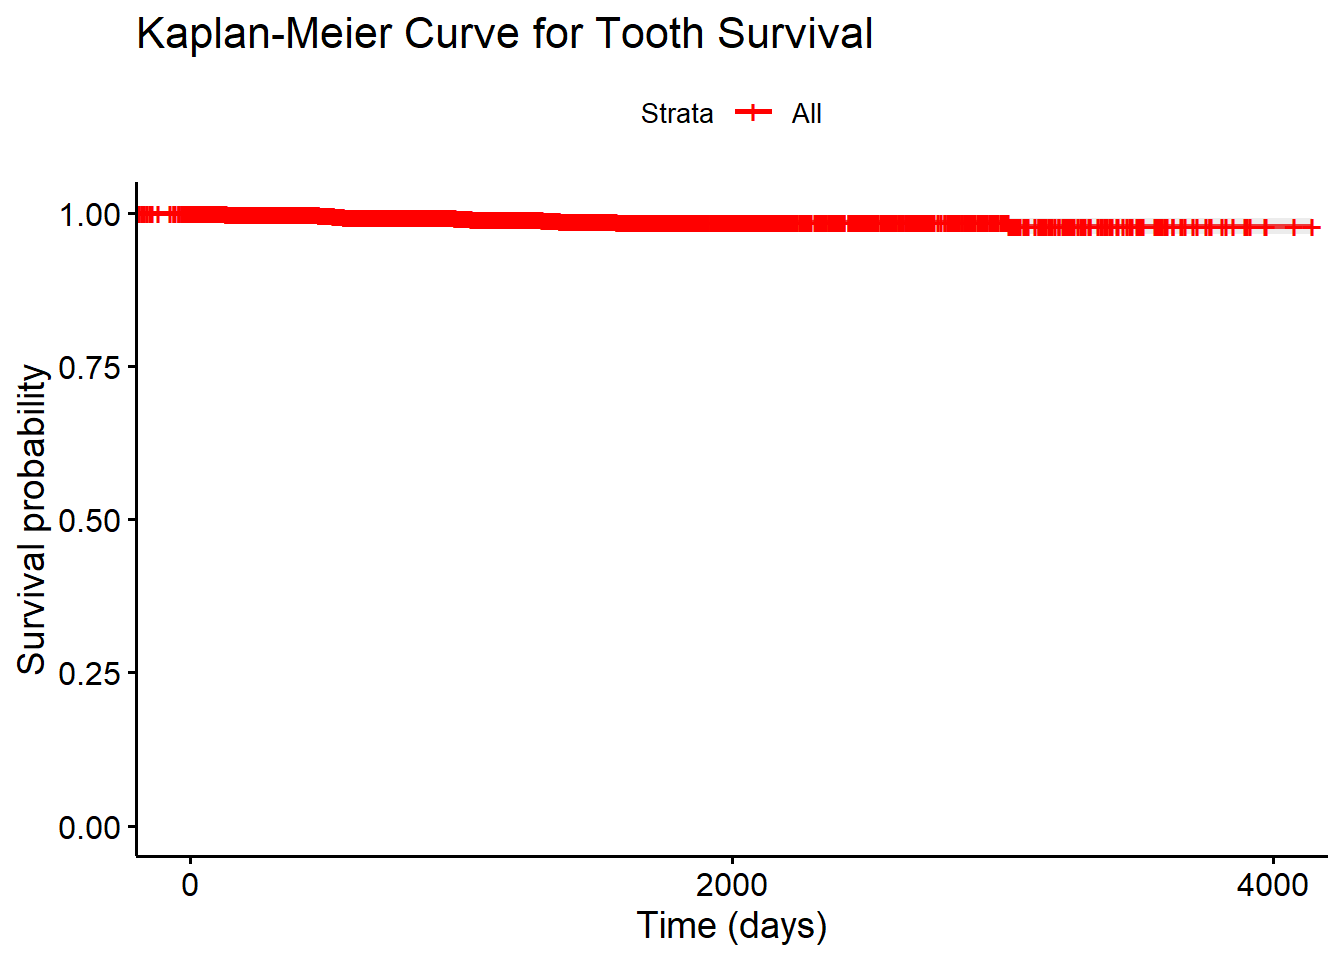
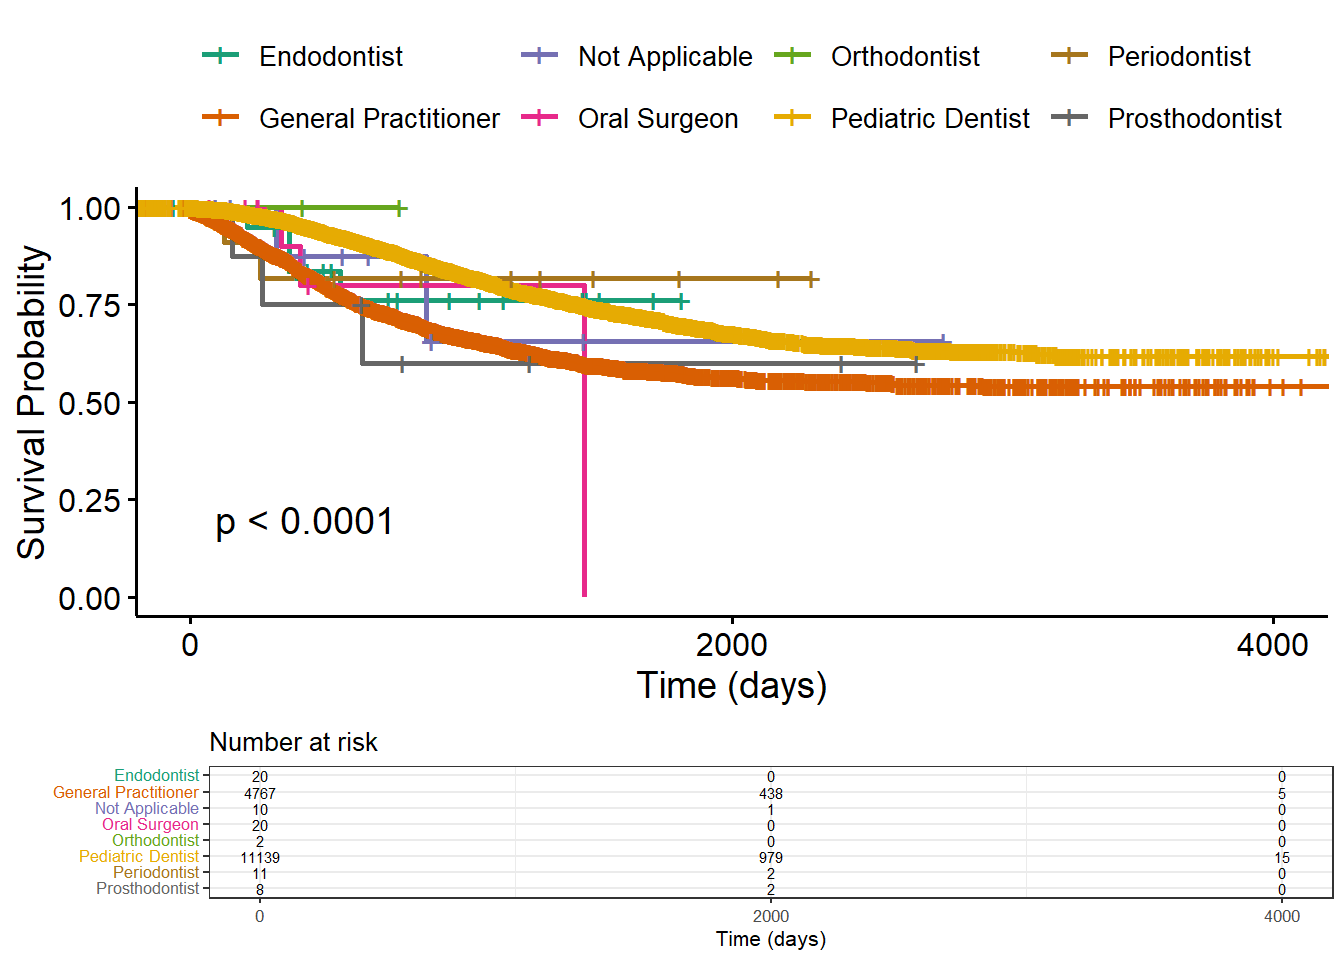
6/5/2025

diff --git a/docs/ddwi_part2_survival_analysis.html b/docs/ddwi_part2_survival_analysis.html
@@ -400,7 +400,7 @@ aria-hidden="true"></span> </a>
 <div class="tab-content">
 <div id="summary" class="tab-pane fade in active">
 <p>
-<strong>Last updated:</strong> 2025-05-21
+<strong>Last updated:</strong> 2025-06-05
 </p>
 <p>
 <strong>Checks:</strong> <span
@@ -534,15 +534,15 @@ project makes it easier to run your code on other machines.</p>
 <div class="panel panel-default">
 <div class="panel-heading">
 <p class="panel-title">
-<a data-toggle="collapse" data-parent="#workflowr-checks" href="#strongRepositoryversionstrongahrefhttpsgithubcomhan16Oralpublichealthtree8ba5fe76334b312c6809ec0963849c1befb299cdtargetblank8ba5fe7a">
+<a data-toggle="collapse" data-parent="#workflowr-checks" href="#strongRepositoryversionstrongahrefhttpsgithubcomhan16Oralpublichealthtreede898e4e5431832097ade03393d9edb43040538ctargetblankde898e4a">
 <span class="glyphicon glyphicon-ok text-success"
 aria-hidden="true"></span> <strong>Repository version:</strong>
-<a href="https://github.com/han16/Oral-public-health/tree/8ba5fe76334b312c6809ec0963849c1befb299cd" target="_blank">8ba5fe7</a>
+<a href="https://github.com/han16/Oral-public-health/tree/de898e4e5431832097ade03393d9edb43040538c" target="_blank">de898e4</a>
 </a>
 </p>
 </div>
 <div
[2 lines of base64/hex data omitted]
 class="panel-collapse collapse">
 <div class="panel-body">
 <p>
@@ -552,7 +552,7 @@ reproducibility.
 </p>
 <p>
 The results in this page were generated with repository version
-<a href="https://github.com/han16/Oral-public-health/tree/8ba5fe76334b312c6809ec0963849c1befb299cd" target="_blank">8ba5fe7</a>.
+<a href="https://github.com/han16/Oral-public-health/tree/de898e4e5431832097ade03393d9edb43040538c" target="_blank">de898e4</a>.
 See the <em>Past versions</em> tab to see a history of the changes made
 to the R Markdown and HTML files.
 </p>
@@ -619,6 +619,40 @@ Message
 </tr>
 </thead>
 <tbody>
+<tr>
+<td>
+Rmd
+</td>
+<td>
+<a href="https://github.com/han16/Oral-public-health/blob/ee89e19e424747a887bd51e16faf1f2729304bf3/analysis/ddwi_part2_survival_analysis.Rmd" target="_blank">ee89e19</a>
+</td>
+<td>
+han
+</td>
+<td>
+2025-05-21
+</td>
+<td>
+5/21/2025
+</td>
+</tr>
+<tr>
+<td>
+html
+</td>
+<td>
+<a href="https://rawcdn.githack.com/han16/Oral-public-health/ee89e19e424747a887bd51e16faf1f2729304bf3/docs/ddwi_part2_survival_analysis.html" target="_blank">ee89e19</a>
+</td>
+<td>
+han
+</td>
+<td>
+2025-05-21
+</td>
+<td>
+5/21/2025
+</td>
+</tr>
 <tr>
 <td>
 Rmd
@@ -768,7 +802,9 @@ claims &lt;- qread(paste(path, &quot;claims_combined_all.qs&quot;, sep=&quot;&qu
       End_Date = NA,
       Survival_Time_Days = NA,
       Event_Observed = NA,
-      Index = index
+      Index = index,
+      provider_specialty=NA,
+      surface_area_code=NA
     ))
   }
 
@@ -791,7 +827,9 @@ claims &lt;- qread(paste(path, &quot;claims_combined_all.qs&quot;, sep=&quot;&qu
       End_Date = NA,
       Survival_Time_Days = NA,
       Event_Observed = NA,
-      Index = index
+      Index = index, 
+      provider_specialty=NA,
+      surface_area_code=NA
     ))
   }
 
@@ -809,6 +847,17 @@ claims &lt;- qread(paste(path, &quot;claims_combined_all.qs&quot;, sep=&quot;&qu
   }
 
   survival_time &lt;- as.numeric(difftime(end_date, start_date, units = &quot;days&quot;))
+  
+  provider_specialty=claims %&gt;%
+    filter(member_tooth_number == tooth_id) %&gt;%
+    select(`Provider Specialty Name`) %&gt;%
+    pull()
+  surface_area_code=claims %&gt;%
+    filter(member_tooth_number == tooth_id) %&gt;%
+    select(`All Surfaces Area Code`) %&gt;%
+    pull()
+  
+  
 
   return(data.frame(
     Tooth_ID = tooth_id,
@@ -816,7 +865,10 @@ claims &lt;- qread(paste(path, &quot;claims_combined_all.qs&quot;, sep=&quot;&qu
     End_Date = end_date,
     Survival_Time_Days = survival_time,
     Event_Observed = event_observed,
-    Index = index
+    Index = index, 
+    provider_specialty=provider_specialty[1], 
+    surface_area_code=surface_area_code[1]
+    
   ))
 }</code></pre>
 <ul>
@@ -839,9 +891,8 @@ survival_results &lt;- map2_dfr(
 <h3>survival analysis</h3>
 <pre class="r"><code>survival_results=qread(paste(path, &quot;survival_results_for_code3220.qs&quot;, sep=&quot;&quot;))
 # Assuming your data frame is named survival_results
-survival_results_clean &lt;- survival_results[!grepl(&quot;^9999&quot;, survival_results$End_Date), ]
-
-library(survival)
+survival_results_clean &lt;- survival_results[!grepl(&quot;^9999&quot;, survival_results$End_Date), ]</code></pre>
+<pre class="r"><code>library(survival)
 library(survminer)
 
 # Create the survival object
@@ -860,83 +911,23 @@ ggsurvplot(km_fit,
            ylab = &quot;Survival probability&quot;,
            title = &quot;Kaplan-Meier Curve for Tooth Survival&quot;,
            palette = &quot;red&quot;)              # Set curve color to red</code></pre>
-<p><img src="figure/ddwi_part2_survival_analysis.Rmd/unnamed-chunk-6-1.png" width="672" style="display: block; margin: auto;" /></p>
-<p>
-<button type="button" class="btn btn-default btn-xs btn-workflowr btn-workflowr-fig" data-toggle="collapse" data-target="#fig-unnamed-chunk-6-1">
-Past versions of unnamed-chunk-6-1.png
-</button>
-</p>
-<div id="fig-unnamed-chunk-6-1" class="collapse">
-<div class="table-responsive">
-<table class="table table-condensed table-hover">
-<thead>
-<tr>
-<th>
-Version
-</th>
-<th>
-Author
-</th>
-<th>
-Date
-</th>
-</tr>
-</thead>
-<tbody>
-<tr>
-<td>
-<a href="https://github.com/han16/Oral-public-health/blob/8ba5fe76334b312c6809ec0963849c1befb299cd/docs/figure/ddwi_part2_survival_analysis.Rmd/unnamed-chunk-6-1.png" target="_blank">8ba5fe7</a>
-</td>
-<td>
-han
-</td>
-<td>
-2025-05-21
-</td>
-</tr>
-</tbody>
-</table>
-</div>
-</div>
-</div>
-</div>
-<div id="d3120-pulp-cap-indirect" class="section level2">
-<h2>D3120 Pulp cap indirect</h2>
-<pre class="r"><code>start_code=3120
-teeth_sample=claims %&gt;% filter(`Submitted Procedure Code`==start_code) %&gt;% select(member_tooth_number) %&gt;% pull()
-#teeth_sample=teeth_sample[1:3]
+<p><img src="figure/ddwi_part2_survival_analysis.Rmd/unnamed-chunk-7-1.png" width="672" style="display: block; margin: auto;" /></p>
+<pre class="r"><code>fit &lt;- survfit(Surv(Survival_Time_Days, Event_Observed) ~ provider_specialty, data = survival_results_clean)
 
+# Extract labels in the correct order
+labels &lt;- sub(&quot;.*=&quot;, &quot;&quot;, names(fit$strata))
 
-survival_results &lt;- map2_dfr(
-  .x = teeth_sample,
-  .y = seq_along(teeth_sample),
-  .f = ~compute_survival(tooth_id = .x, claims = claims, demo = demo, index = .y, start_code=3120)
-)
-qsave(survival_results, paste(path, &quot;survival_results_for_code&quot;, start_code, &quot;.qs&quot;, sep=&quot;&quot;))</code></pre>
-<pre class="r"><code>start_code=3120
-survival_results=qread(paste(path, &quot;survival_results_for_code&quot;, start_code, &quot;.qs&quot;, sep=&quot;&quot;))
-# Assuming your data frame is named survival_results
-survival_results_clean &lt;- survival_results[!grepl(&quot;^9999&quot;, survival_results$End_Date), ]
-
-library(survival)
-library(survminer)
-
-# Create the survival object
-surv_obj &lt;- Surv(time = survival_results_clean$Survival_Time_Days,
-                 event = survival_results_clean$Event_Observed)
-
-# Fit the Kaplan-Meier model
-km_fit &lt;- survfit(surv_obj ~ 1, data = survival_results_clean)
-
-# Plot the KM curve: red curve, gray confidence interval
-ggsurvplot(km_fit,
+ggsurvplot(fit,
            data = survival_results_clean,
-           conf.int = TRUE,
-           conf.int.fill = &quot;gray&quot;,       # Set confidence band to gray
+           pval = TRUE,
+           risk.table = TRUE,
            xlab = &quot;Time (days)&quot;,
-           ylab = &quot;Survival probability&quot;,
-           title = &quot;Kaplan-Meier Curve for Tooth Survival&quot;,
-           palette = &quot;red&quot;)              # Set curve color to red</code></pre>
+           ylab = &quot;Survival Probability&quot;,
+           legend.title = &quot;&quot;,
+           legend.labs = labels,
+           palette = &quot;Dark2&quot;,
+           risk.table.fontsize = 2,
+           tables.theme = theme_bw(base_size = 8))</code></pre>
 <p><img src="figure/ddwi_part2_survival_analysis.Rmd/unnamed-chunk-8-1.png" width="672" style="display: block; margin: auto;" /></p>
 <p>
 <button type="button" class="btn btn-default btn-xs btn-workflowr btn-workflowr-fig" data-toggle="collapse" data-target="#fig-unnamed-chunk-8-1">
@@ -975,31 +966,45 @@ han
 </table>
 </div>
 </div>
-<pre class="r"><code>survival_results1=qread(paste(path, &quot;survival_results_for_code&quot;, 3220, &quot;.qs&quot;, sep=&quot;&quot;))
-survival_results2=qread(paste(path, &quot;survival_results_for_code&quot;, 3120, &quot;.qs&quot;, sep=&quot;&quot;))
-survival_combined=rbind(survival_results1, survival_results2) 
-survival_combined$code=c(rep(&quot;3220&quot;, nrow(survival_results1)), rep(&quot;3120&quot;, nrow(survival_results2)))
-survival_combined_clean &lt;- survival_combined[!grepl(&quot;^9999&quot;, survival_combined$End_Date), ]</code></pre>
-<pre class="r"><code># Create a Surv object
-surv_object &lt;- Surv(time = survival_combined_clean$Survival_Time_Days, 
-                    event = survival_combined_clean$Event_Observed)
+</div>
+</div>
+<div id="d3120-pulp-cap-indirect" class="section level2">
+<h2>D3120 Pulp cap indirect</h2>
+<pre class="r"><code>start_code=3120
+teeth_sample=claims %&gt;% filter(`Submitted Procedure Code`==start_code) %&gt;% select(member_tooth_number) %&gt;% pull()
+#teeth_sample=teeth_sample[1:3]
 
-# Fit a survival model by &#39;code&#39;
-fit &lt;- survfit(surv_object ~ code, data = survival_combined_clean)
 
-# Plot the survival curves
-ggsurvplot(
-  fit, 
-  data = survival_combined_clean,
-  pval = TRUE,                # Add p-value for log-rank test
-  conf.int = TRUE,            # Add confidence intervals
-  risk.table = TRUE,          # Show number at risk
-  legend.title = &quot;Code&quot;,      
-  xlab = &quot;Time in Days&quot;,      
-  ylab = &quot;Survival Probability&quot;,
-  palette = &quot;Dark2&quot;,           # Use a nice color palette
-  risk.table.fontsize = 3    # smaller font size (try 2 to 4 for smaller text)
-)</code></pre>
+survival_results &lt;- map2_dfr(
+  .x = teeth_sample,
+  .y = seq_along(teeth_sample),
+  .f = ~compute_survival(tooth_id = .x, claims = claims, demo = demo, index = .y, start_code=3120)
+)
+#qsave(survival_results, paste(path, &quot;survival_results_for_code&quot;, start_code, &quot;.qs&quot;, sep=&quot;&quot;))</code></pre>
+<pre class="r"><code>start_code=3120
+survival_results=qread(paste(path, &quot;survival_results_for_code&quot;, start_code, &quot;.qs&quot;, sep=&quot;&quot;))
+# Assuming your data frame is named survival_results
+survival_results_clean &lt;- survival_results[!grepl(&quot;^9999&quot;, survival_results$End_Date), ]
+
+library(survival)
+library(survminer)
+
+# Create the survival object
+surv_obj &lt;- Surv(time = survival_results_clean$Survival_Time_Days,
+                 event = survival_results_clean$Event_Observed)
+
+# Fit the Kaplan-Meier model
+km_fit &lt;- survfit(surv_obj ~ 1, data = survival_results_clean)
+
+# Plot the KM curve: red curve, gray confidence interval
+ggsurvplot(km_fit,
+           data = survival_results_clean,
+           conf.int = TRUE,
+           conf.int.fill = &quot;gray&quot;,       # Set confidence band to gray
+           xlab = &quot;Time (days)&quot;,
+           ylab = &quot;Survival probability&quot;,
+           title = &quot;Kaplan-Meier Curve for Tooth Survival&quot;,
+           palette = &quot;red&quot;)              # Set curve color to red</code></pre>
 <p><img src="figure/ddwi_part2_survival_analysis.Rmd/unnamed-chunk-10-1.png" width="672" style="display: block; margin: auto;" /></p>
 <p>
 <button type="button" class="btn btn-default btn-xs btn-workflowr btn-workflowr-fig" data-toggle="collapse" data-target="#fig-unnamed-chunk-10-1">
@@ -1025,6 +1030,17 @@ Date
 <tbody>
 <tr>
 <td>
+<a href="https://github.com/han16/Oral-public-health/blob/ee89e19e424747a887bd51e16faf1f2729304bf3/docs/figure/ddwi_part2_survival_analysis.Rmd/unnamed-chunk-10-1.png" target="_blank">ee89e19</a>
+</td>
+<td>
+han
+</td>
+<td>
+2025-05-21
+</td>
+</tr>
+<tr>
+<td>
 <a href="https://github.com/han16/Oral-public-health/blob/8ba5fe76334b312c6809ec0963849c1befb299cd/docs/figure/ddwi_part2_survival_analysis.Rmd/unnamed-chunk-10-1.png" target="_blank">8ba5fe7</a>
 </td>
 <td>
@@ -1038,6 +1054,49 @@ han
 </table>
 </div>
 </div>
+<pre class="r"><code>fit &lt;- survfit(Surv(Survival_Time_Days, Event_Observed) ~ provider_specialty, data = survival_results_clean)
+
+# Extract labels in the correct order
+labels &lt;- sub(&quot;.*=&quot;, &quot;&quot;, names(fit$strata))
+
+ggsurvplot(fit,
+           data = survival_results_clean,
+           pval = TRUE,
+           risk.table = TRUE,
+           xlab = &quot;Time (days)&quot;,
+           ylab = &quot;Survival Probability&quot;,
+           legend.title = &quot;&quot;,
+           legend.labs = labels,
+           palette = &quot;Dark2&quot;,
+           risk.table.fontsize = 2,
+           tables.theme = theme_bw(base_size = 8))</code></pre>
+<p><img src="figure/ddwi_part2_survival_analysis.Rmd/unnamed-chunk-11-1.png" width="672" style="display: block; margin: auto;" /></p>
+<pre class="r"><code>survival_results1=qread(paste(path, &quot;survival_results_for_code&quot;, 3220, &quot;.qs&quot;, sep=&quot;&quot;))
+survival_results2=qread(paste(path, &quot;survival_results_for_code&quot;, 3120, &quot;.qs&quot;, sep=&quot;&quot;))
+survival_combined=rbind(survival_results1, survival_results2) 
+survival_combined$code=c(rep(&quot;3220&quot;, nrow(survival_results1)), rep(&quot;3120&quot;, nrow(survival_results2)))
+survival_combined_clean &lt;- survival_combined[!grepl(&quot;^9999&quot;, survival_combined$End_Date), ]</code></pre>
+<pre class="r"><code># Create a Surv object
+surv_object &lt;- Surv(time = survival_combined_clean$Survival_Time_Days, 
+                    event = survival_combined_clean$Event_Observed)
+
+# Fit a survival model by &#39;code&#39;
+fit &lt;- survfit(surv_object ~ code, data = survival_combined_clean)
+
+# Plot the survival curves
+ggsurvplot(
+  fit, 
+  data = survival_combined_clean,
+  pval = TRUE,                # Add p-value for log-rank test
+  conf.int = TRUE,            # Add confidence intervals
+  risk.table = TRUE,          # Show number at risk
+  legend.title = &quot;Code&quot;,      
+  xlab = &quot;Time in Days&quot;,      
+  ylab = &quot;Survival Probability&quot;,
+  palette = &quot;Dark2&quot;,           # Use a nice color palette
+  risk.table.fontsize = 3    # smaller font size (try 2 to 4 for smaller text)
+)</code></pre>
+<p><img src="figure/ddwi_part2_survival_analysis.Rmd/unnamed-chunk-13-1.png" width="672" style="display: block; margin: auto;" /></p>
 <ul>
 <li>small p value suggests the survival curves differ significantly
 between code 3120 and 3220.</li>
